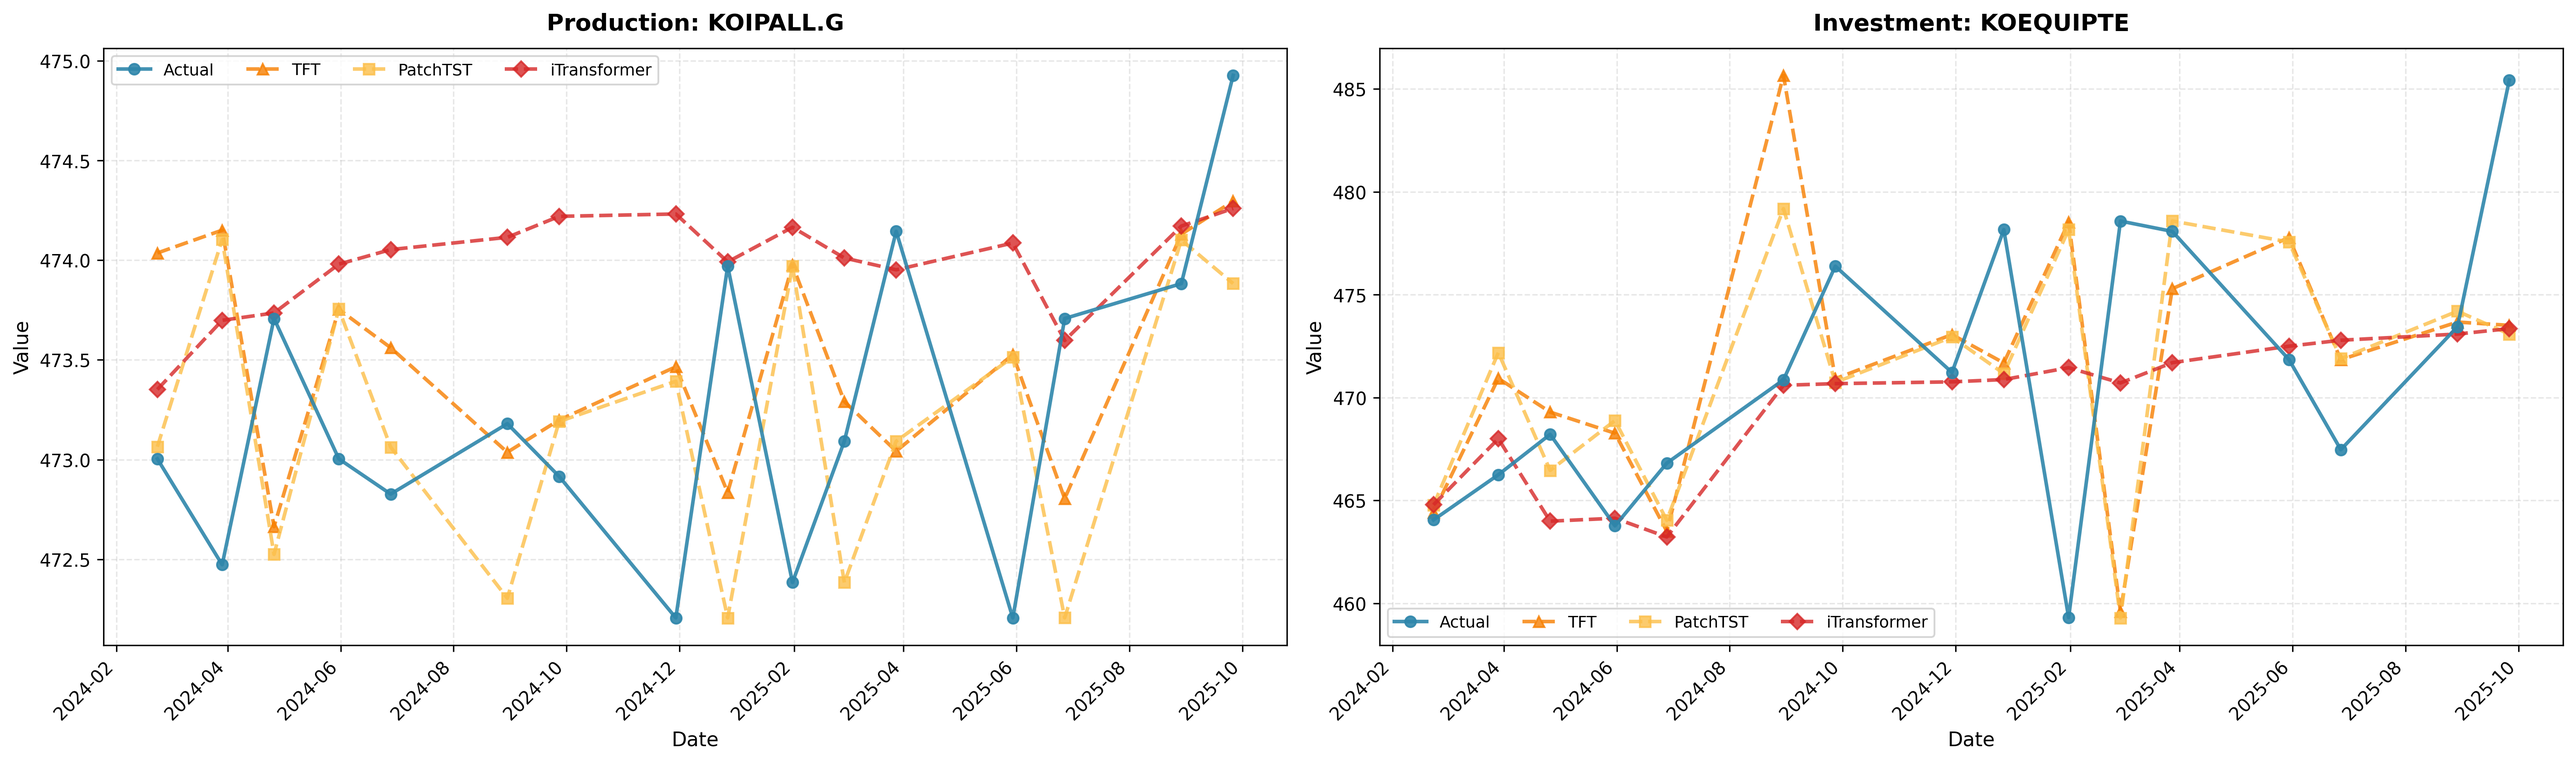
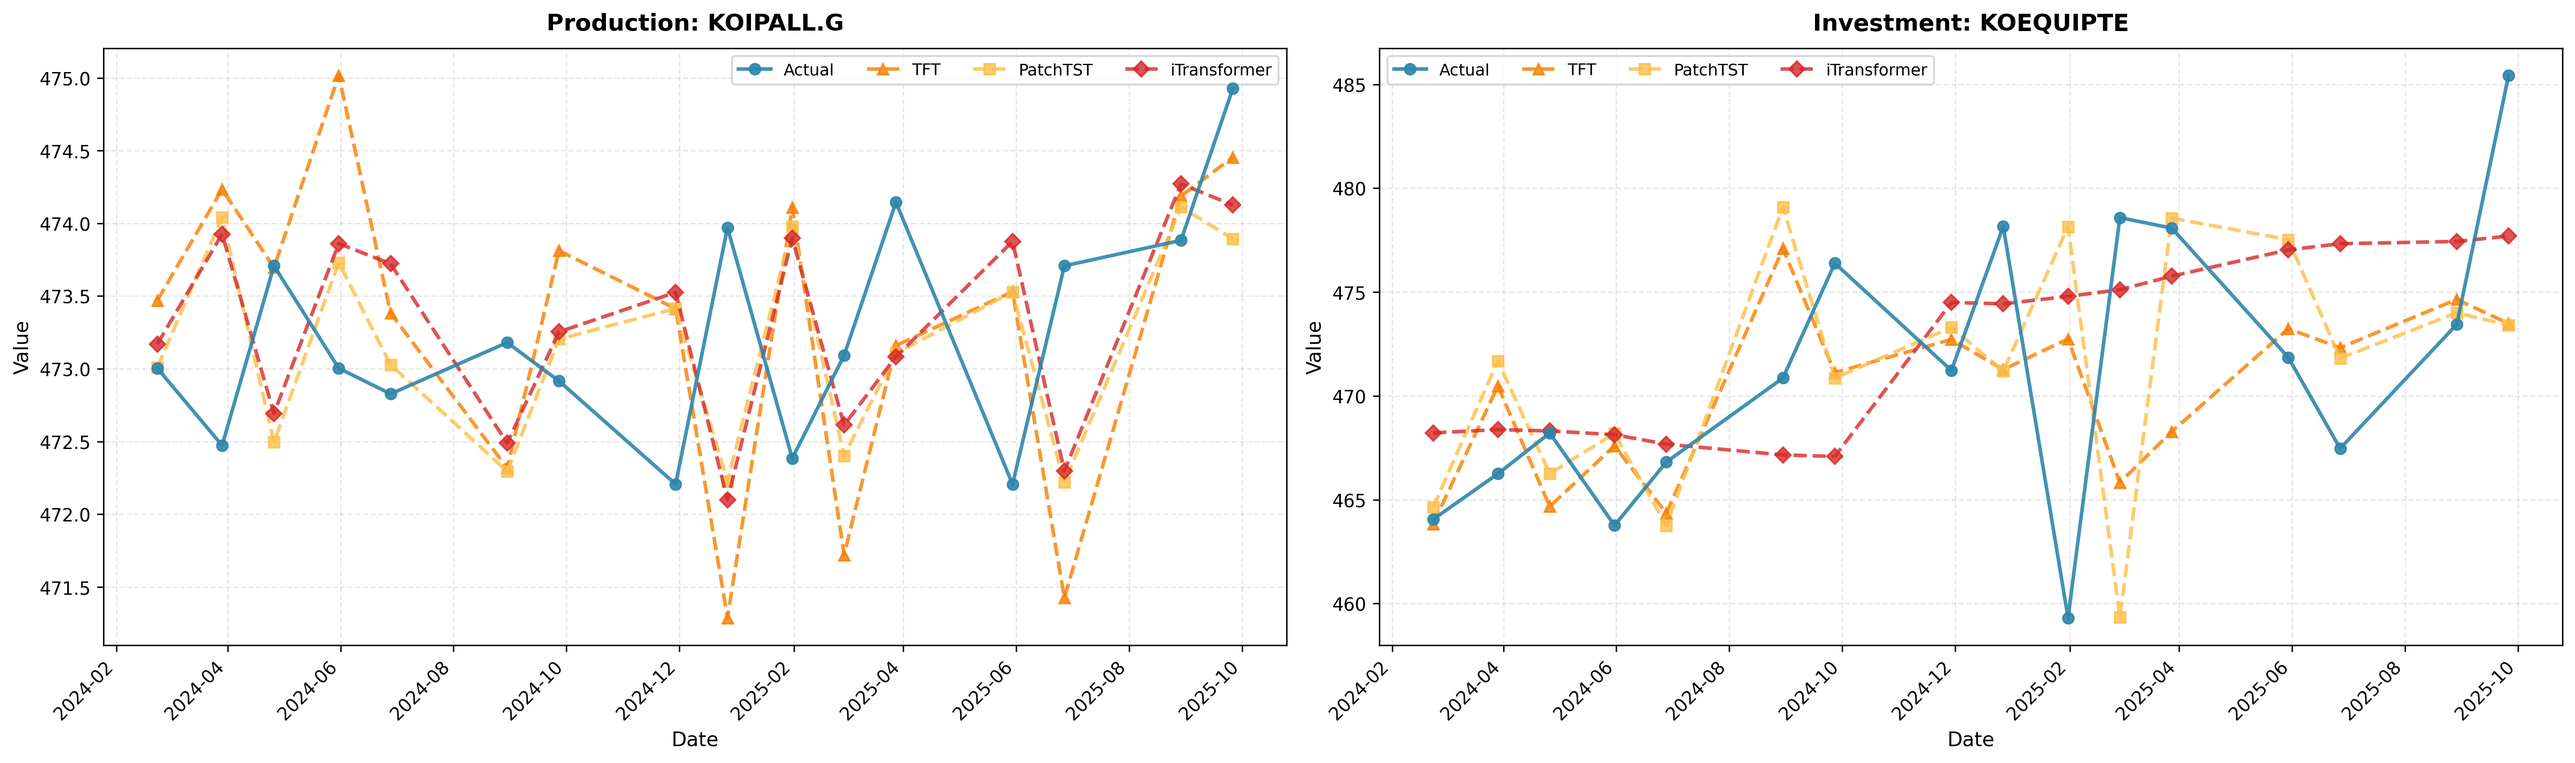
update

diff --git a/content/4_ssm_based_model.md b/content/4_ssm_based_model.md
@@ -1,2 +1,59 @@
+□ DFM(Dynamic Factor Model)
+◦ 공통 요인 개수는 7개, 요인 시차는 4로 설정하여 기존 실시간 경기 진단 모형과 동일한 설정을 유지
+◦ FRBNY Staff Nowcast 계열의 블록 구조를 참고하였고, 주간→월간 혼합주기 처리는 tent kernel 집계(Mariano and Murasawa, 2003) 아이디어를 차용
+◦ 현 구현에서는 생산/투자 지표 각각 학습에 약 6시간이 소요되어 반복 실험 비용이 큼(구현 특성상 GPU 병렬화 이점이 제한적)
+◦ 학습 과정에서 수렴이 불안정하게 나타나는 경우가 있었으며, 특히 생산 지표는 변수 간 높은 상관관계 및 정보량(유효 신호) 측면에서 학습 난이도가 높게 관측됨
+◦ 추정 과정(초기값 설정 포함)에 따라 수렴/안정성이 민감하게 달라지는 것을 확인
+◦ 동학 모델링:
+f _{t} =A _{f} f _{t-1} +v _{t}
+epsilon  _{t} =A _{epsilon } epsilon  _{t-1} +u _{t}
+y _{t} =C[f _{t} ; epsilon  _{t} ]+e _{t}
 
-□ DDFM
+□ DDFM(Deep Dynamic Factor Model)
+◦ DFM의 "상태공간" 구조를 유지하되,  관측치와 요인의 관계를 비선형 신경망으로 확장하여 좀더 유연하게 포착하는 접근
+◦ Autoencoder 구조를 활용하여 대규모 시계열에서의 공통요인을 학습을 가능하도록 함과 동시에 딥러닝을 통해 요인의 표현력(expressiveness)를 늘려 예측력을 개선하는 것을 목표로 함
+◦ 변환 관점에서 \(X\)를 저차원의 잠재요인으로 압축한 뒤(encoder) 이를 기반으로 예측치를 산출(decoder): \(X \rightarrow f \rightarrow \hat{Y}\)
+◦ 결측치가 있는 변수/시점은 요인 추출(인코더) 과정에서 제외하여, 관측된 데이터만으로 공통요인을 추출
+◦ 혼합주기 데이터(주간–월간)의 경우, 월간 시계열은 변환(차분 등)을 위해 먼저 월간으로 집계한 뒤 변환을 적용하고, 다시 주간 형식으로 확장하여 인코더에 입력(월말 주에만 값이 있고 나머지는 NaN). 인코더는 이 주간 형식의 혼합주기 데이터를 직접 처리하며, 집계는 예측 단계에서 평가를 위해만 수행됨
+◦ 동학 모델링(Psi, Phi는 인코더 함수):
+f_{t} = Phi(y_{t}) #
+f _{t} =Af _{t-1} +u _{t}#
+y _{t} = Psi( f _{t} )
+
+
+□ MAMBA
+◦ 기존 상태공간 모형이 입력 변환, 상태 전이, 그리고 출력 변환을 시간 불변으로 두고 모델링 한 것을 시간에 따라 변하도록 모델링함
+◦ 필요한 정보를 거르는 gate MLP블록과 시간 가변 상태 공간 모델링을 하는 selective SSM 블록을 scan 기반 연산으로 GPU를 통해 병렬 처리함
+◦ DFM, DDFM과는 달리 요인이 결정(deterministic)적이기 때문에 동학의 확률성(stochasticity)을 가정하지 않음
+◦ 동학 모델링:
+f _{t} ={bar A_t}(x_{t}) f _{t-1} + {bar B_t}(x_{t}) x _{t}#
+y _{t} = C_{t}(x_{t}) f_{t} 
+◦ bar A, bar B, C 모두 입력에 의해 의존적으로 변하는 동적인 행렬
+
+
+
+□ 단기 예측 실험 구성
+◦ 앞 실험과 동일한 기간, 동일한 평가지표 및 업데이트 방식 사용
+◦ 상태공간 계열 모델의 경우 (로그)차분, 표준화 등 데이터 전처리를 거친 후 모델이 학습, 예측 시 역변환한 값을 기준으로 평가 지표 계산
+◦ 최신 데이터를 활용하여 재귀적 예측 시 상태 업데이트: 앞선 실험과 마찬가지로 전체 재학습은 시행하지 않음
+
+□ 단기예측 실험 결과
+
+| 모델명 | 생산 지표 단기 예측 | | 투자 지표 단기 예측 | |
+|--------|-------------------|--|-------------------|--|
+| | sMSE | sMAE | sMSE | sMAE |
+| DFM | - | - | - | - |
+| DDFM | 1.944 | 1.146 | 1.639 | 0.987 |
+| MAMBA | 1.890 | 0.925 | 0.082 | 0.250 |
+
+□ 단기예측 결과 해석
+
+
+
+□ 장기 예측 결과 해석
+◦ 앞 실험과 동일한 기간, 동일한 평가지표 및 업데이트 방식 사용
+◦ 상태공간 기반 모형의 경우 상태를 통해 동학을 구조적으로 표현하기 때문에 예측기간을 지정해 줄 필요가 없음: 단기예측과 동일한 모델로 장기 예측 활용
+◦ 장기 예측 시, 재귀적으로 상태를 업데이트 하지 않고 한번에 긴 기간을 예측
+
+
+

diff --git a/appendix/c_additional_results.md b/appendix/c_additional_results.md
@@ -1,45 +1,31 @@
-□ 생산 지표 단기 예측 실험
-
-| 모델 | sMSE | sMAE |
-|------|------|------|
-| TFT | 0.1064 | 0.2701 |
-| PatchTST | 0.1230 | 0.3054 |
-| iTransformer | 0.1214 | 0.2792 |
-
-□ 투자 지표 단기 예측 실험
-
-| 모델 | sMSE | sMAE |
-|------|------|------|
-| TFT | 2.2431 | 1.1172 |
-| PatchTST | 2.2628 | 1.1043 |
-| iTransformer | 1.2408 | 0.9308 |
+# 장기 예측 실험 결과
 
 □ 생산 지표 장기 예측 실험
 
-| Horizon | TFT | PatchTST | iTransformer |
-|---------|-----|----------|--------------|
-| 1 month | 0.0417 | 0.1213 | 0.4192 |
-| 2 month | 0.1851 | 0.1748 | 0.0067 |
-| 3 month | 0.0134 | 0.0006 | 0.3486 |
-| 4 month | 0.1180 | 0.0288 | 0.1320 |
-| 5 month | 0.3634 | 0.0131 | 0.0007 |
-| 6 month | 0.0000 | 0.0000 | 0.0000 |
-| 7 month | 0.0775 | 0.3537 | 0.4192 |
-| 8 month | 0.0142 | 0.0554 | 0.0276 |
-| 9 month | 0.0000 | 0.0000 | 0.0000 |
-| 10 month | 0.0027 | 0.0337 | 0.0121 |
+| Horizon | TFT | PatchTST | iTransformer | TimeMixer |
+|---------|-----|----------|--------------|----------|
+| 1 month | 0.0417 | 0.1213 | 0.3784 | 0.0220 |
+| 2 month | 0.1851 | 0.1748 | 0.0067 | 0.1331 |
+| 3 month | 0.0134 | 0.0006 | 0.3968 | 0.0217 |
+| 4 month | 0.1180 | 0.0288 | 0.2047 | 0.0002 |
+| 5 month | 0.3634 | 0.0131 | 0.0215 | 0.0731 |
+| 6 month | 0.0000 | 0.0000 | 0.0000 | NA |
+| 7 month | 0.0775 | 0.3537 | 0.6752 | 0.2109 |
+| 8 month | 0.0142 | 0.0554 | 0.1909 | 0.0035 |
+| 9 month | 0.0000 | 0.0000 | 0.0000 | NA |
+| 10 month | 0.0027 | 0.0337 | 0.1833 | 0.0097 |
 
 □ 투자 지표 장기 예측 실험
 
-| Horizon | TFT | PatchTST | iTransformer |
-|---------|-----|----------|--------------|
-| 1 month | 0.8603 | 0.5012 | 0.0041 |
-| 2 month | 0.5335 | 0.0104 | 1.6987 |
-| 3 month | 6.9009 | 11.7493 | 4.2546 |
-| 4 month | 0.5371 | 0.0020 | 1.8989 |
-| 5 month | 0.4131 | 0.0381 | 1.6599 |
-| 6 month | 0.0000 | 0.0000 | 0.0000 |
-| 7 month | 2.2425 | 1.2682 | 0.0310 |
-| 8 month | 10.3861 | 4.0878 | 0.3671 |
-| 9 month | 0.0000 | 0.0000 | 0.0000 |
-| 10 month | 0.7147 | 0.3672 | 0.2123 |
+| Horizon | TFT | PatchTST | iTransformer | TimeMixer |
+|---------|-----|----------|--------------|----------|
+| 1 month | 0.0038 | 0.2048 | 0.2833 | 1.0558 |
+| 2 month | 2.8830 | 0.5085 | 0.8754 | 0.0992 |
+| 3 month | 2.9070 | 0.1113 | 1.4399 | 10.0599 |
+| 4 month | 1.1474 | 0.0996 | 0.6683 | 0.1427 |
+| 5 month | 0.4150 | 0.0661 | 0.6318 | 0.1037 |
+| 6 month | 0.0000 | 0.1026 | 0.0441 | NA |
+| 7 month | 0.4345 | 0.0396 | 0.8687 | 0.6502 |
+| 8 month | 1.9910 | 1.4863 | 0.9917 | 2.6128 |
+| 9 month | 0.0000 | 2.4636 | 0.3188 | NA |
+| 10 month | 0.0953 | 2.2478 | 1.5555 | 0.4918 |

diff --git a/content/3_mixed_freq_model.md b/content/3_mixed_freq_model.md
@@ -2,15 +2,27 @@
 
 □ TimeMixer
 ◦ 다양한 주기(sampling scale)에서 분해한 추세와 계절성을 혼합하여 과거 정보를 추출하고, 예측을 위해 앙상블하는 방법으로 혼합주기 예측
-◦ 입력 시퀀스를 다운샘플링하여 여러 주기를 표현: 본 실험에서 주간 월간 혼합주기를 반영하기 위해 downsampling_window=4 로 설정
+◦ 주간-월간 혼합주기 데이터를 처리하기 위해 2개 스케일(scale) 사용: 주간(weekly) → 월간(monthly)
+◦ 입력 시퀀스를 다운샘플링하여 여러 주기를 표현: 본 실험에서 주간 월간 혼합주기를 반영하기 위해 downsampling_window=4, down_sampling_layers=1 로 설정
 ◦ PDM(past decomposable mixing), FMM(future multipredictor mixing) 블록으로 모델을 구분하여 PDM에서 추세와 계절성을 혼합하고 FMM에서 예측치를 앙상블함: X IN  R ^{B TIMES  T TIMES  N} rarrow  [X _{0} ,X _{1} , CDOTS  ,X _{M} ], X _{m} IN  R ^{B TIMES  [T/w ^{m} ] TIMES  N}
 ◦ B는 배치 크기, T는 시점 수, N은 변수 개수, M은 주기의 개수(다운 샘플링), w는 주기의 단위(다운샘플링 단위), L은 PDM레이어의 수를 의미
 ◦ 다운샘플링은 평균, 최대값, 컨볼루션 연산을 활용할 수 있음
 
+
 □ 단기 예측 실험 결과
+◦ 앞선 실험과 동일한 기간, 동일한 평가지표 및 업데이트 방식 사용
+◦ 혼합주기 처리: down_sampling_layers=1, down_sampling_window=4로 주간→월간 2스케일 구조 사용
+
+| 모델명 | 생산 지표 단기 예측 | | 투자 지표 단기 예측 | |
+|--------|-------------------|--|-------------------|--|
+| | sMSE | sMAE | sMSE | sMAE |
+| TimeMixer | 8.61 | 2.20 | 1.53 | 0.97 |
+
 
 □ 단기 예측 결과 해석
-
-□ 장기 예측 실험 결과
-
-□ 장기 예측 결과 해석
+◦ 앞 실험과 동일한 기간, 동일한 평가지표 및 업데이트 방식 사용
+◦ 값 자체가 크고 분산이 작은 생산지표의 경우 TimeMixer가 학습할 수 있는 정보가 적어 예측 결과가 좋지 않음
+◦ 혼합 주기 mixing 과정에서 과소한 분산으로 인해 노이즈가 자리잡았을 가능성
+◦ 혼합 주기 구조는 월간 시계열 비중이 높은 데이터에서 장점이 기대되나, 생산 지표는 수준 대비 변동이 작아 개선 폭이 제한됨
+◦ 투자 지표에서는 sMSE/sMAE가 상대적으로 양호해 혼합 주기 구조가 투자 데이터에 더 잘 맞는 양상을 보임
+◦ down_sampling_window=4, down_sampling_layers=1 설정과 학습률(0.0005) 조정이 성능에 가장 큰 영향을 준 것으로 확인됨

diff --git a/content/2_attention_based_model.md b/content/2_attention_based_model.md
@@ -38,21 +38,21 @@
 | 모델명 | 생산 지표 단기 예측 | | 투자 지표 단기 예측 | |
 |--------|-------------------|--|-------------------|--|
 | | sMSE | sMAE | sMSE | sMAE |
-| TFT | 0.56 | 0.66 | 2.23 | 1.11 |
-| PatchTST | 0.68 | 0.72 | 2.02 | 1.05 |
-| iTransformer | 0.12 | 0.28 | 1.09 | 0.77 |
+| TFT | 3.48 | 1.58 | 1.11 | 0.85 |
+| PatchTST | 2.14 | 1.28 | 1.62 | 0.94 |
+| iTransformer | 2.22 | 1.33 | 0.89 | 0.75 |
 
 (plot here)[combined_attention_forecast.png]
 
 □ 단기예측 결과 해석
-◦ 시계열 자체를 토큰화 하는 iTransformer의 경우 예측치의 분산이 낮게 나타나 양호한 평가 지표를 보임
-◦ TFT, PatchTST의 경우 재귀적 예측에서 예측치의 분산이 상대적으로 크지만 그만큼 단기적 변동을 잘 잡아낼 수 있음
+◦ TFT 기준으로 생산 지표에서는 회사채 3년(AA-) 금리, 뉴스심리지수, 실업률(전체, 계절조정), 국고채 10년 금리의 중요도가 높았음. 투자 지표에서는 취업자 수(건설업), 생산(건설업), 투자 전망(전산업), 취업자 수(광공업)의 어텐션 가중치가 높게 나타남
+◦ iTransformer의 경우 투자 지표에서 예측의 강점을 보였는데, 데이터 특성상 상대적으로 정보가 많고 변수간 상관관계가 다양한 점이 작용함
+◦ PatchTST는 생산 지표에서 비교적 안정적인 오차 수준을 보였으나 투자 지표에서는 성능 저하가 나타남
 
-□ 장기예측 실험 구성
+□ 장기 예측 실험 구성
 ◦ 2024년 11월 첫째 주를 기준으로 4주, 8주, 12주, ..., 40주(최대 10개월) 후 예측을 수행하여 예측 기간에 따른 모델 성능 변화를 비교
 ◦ 하나의 모델을 최대 예측 기간(40주)에 맞춰 학습한 후, 동일한 모델을 사용하여 다양한 horizon(4주, 8주, 12주, ..., 40주)에 대한 예측을 수행
 ◦ 단기 예측 실험과 마찬가지로 월별 데이터를 기준으로 평가 지표 계산
 ◦ 재귀적 예측과 달리 최신 데이터를 반영하는 모델 업데이트는 처음 한번만 실행
-
-□ 장기예측 실험 결과
+◦ 전체 장기 예측 실험 결과는 [참고 3]에 수록
 

diff --git a/appendix/b_hyperparameters.md b/appendix/b_hyperparameters.md
@@ -6,3 +6,12 @@
 
 
 □ iTransformer(Inverted Transformer)
+
+
+□ iTransformer(Inverted Transformer)
+
+
+□ iTransformer(Inverted Transformer)
+
+
+□ iTransformer(Inverted Transformer)
